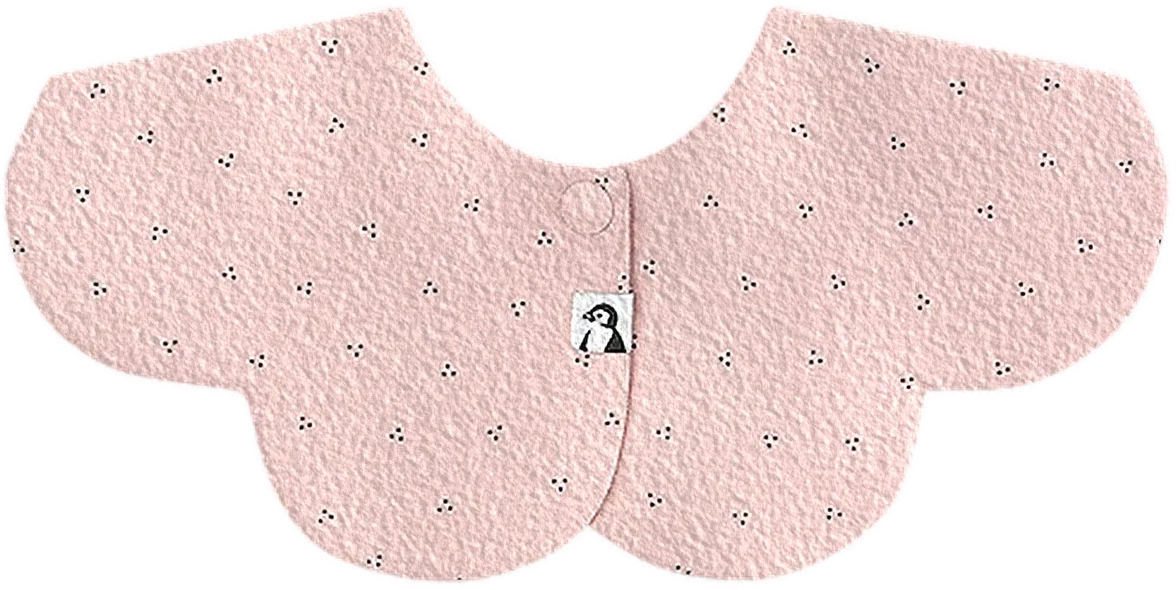
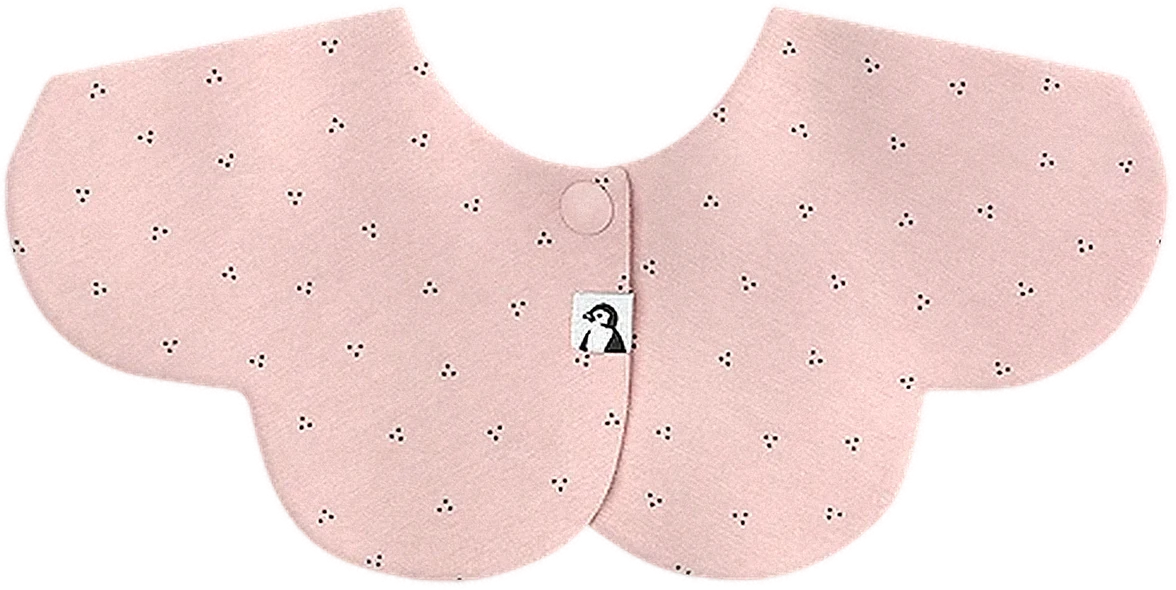
Fix flutter dead since v34: frame delta was computed after its own update
The physics stepped with dtS = nowRender - prevRenderTs, but the sway
block above had already set prevRenderTs = nowRender, so the delta was
always 0 and clamped to the 8ms floor - the cloth simulation ran at 1/4
real time at 31fps, and the swing spring never developed amplitude
before a body movement ended. This is why no amount of gain tuning
(v34-v38) made flutter perceptible. The delta is now captured before
the update. Raw detection velocity also stopped being diluted: it now
updates only when rawX actually changes (render frames without a fresh
detection used to mix in v=0, halving the estimate), with gentle decay
when detections stall. HUD gains cloth/vx/sw fields for remote
diagnosis.

Material (user: nap reads as pebbles, not fur): the bump-grain layers
are removed from the height field - velvet scattering now comes only
from smooth drape slopes (blurred, wide, pale), plus a sub-pixel
luminance-only fiber grain at 2.5%. Side-lit texture contrast drops
6.9 to 4.0 (same as rest) while directional response stays intact.

Verified: simulation at real cadence (31fps render / 29Hz detection,
raw jitter 4px) peaks 2.9/5.7/11.5 deg for 50/100/200% with zero
moving frames at rest. APP_VERSION v39.

Changed region(s): [[0.0, 0.0305, 0.9796, 0.9763], [0.4592, 0.2746, 0.4898, 0.3051]]

diff --git a/js/main.js b/js/main.js
@@ -8,7 +8,7 @@ import {
   DETECT,
   MOBILE_QUERY,
   STATUS_MESSAGES,
-} from './config.js?v38';
+} from './config.js?v39';
 import {
   poseToFit,
   faceToFit,
@@ -20,19 +20,19 @@ import {
   isPlausibleFit,
   applyFusionOffset,
   measureFusionOffset,
-} from './fit-math.js?v38';
-import { applyStopLock, smoothTimed } from './stabilizer.js?v38';
+} from './fit-math.js?v39';
+import { applyStopLock, smoothTimed } from './stabilizer.js?v39';
 import {
   drawBib,
   eraseMaskArea,
   drawBeautyLight,
-} from './renderer.js?v38';
-import { createPoseLandmarker, createFaceLandmarker, createImageSegmenter } from './engine.js?v38';
-import { SEG_MODEL_LITE_URL } from './config.js?v38';
+} from './renderer.js?v39';
+import { createPoseLandmarker, createFaceLandmarker, createImageSegmenter } from './engine.js?v39';
+import { SEG_MODEL_LITE_URL } from './config.js?v39';
 
 // 빌드 버전 — index.html의 ?v= 캐시버스팅과 함께 올린다.
 // ?debug=1 HUD 첫 줄과 콘솔, __vtoDiag()에 표시되어 "지금 어떤 버전인지" 즉시 확인 가능.
-const APP_VERSION = 'v38';
+const APP_VERSION = 'v39';
 
 const $ = (id) => document.getElementById(id);
 
@@ -248,7 +248,7 @@ function updateHud(now) {
     `engine:${diag.engine} delegate:${delegatePref} input:${analyzeMode} stage:${stageIndex}${hasEverDetected ? '*' : ''}`,
     `video:${v?.videoWidth ?? 0}x${v?.videoHeight ?? 0} mobile:${isMobileSession} seg:${segDisabled ? 'off' : segmenter ? `${segTier} ${diag.segRuns}r e${diag.segErrors} ${diag.segCost ?? 0}ms` : '-'}`,
     `pose:${diag.poseHits}/${diag.poseRuns} e${diag.poseErrors} face:${diag.faceHits}/${diag.faceRuns} e${diag.faceErrors}${faceForcedCpu ? ' faceCPU' : ''}`,
-    `fit:${renderedFit ? `${Math.round(renderedFit.x)},${Math.round(renderedFit.y)} w${Math.round(renderedFit.width)}` : '-'} mask:${mask ? 'y' : 'n'}`,
+    `fit:${renderedFit ? `${Math.round(renderedFit.x)},${Math.round(renderedFit.y)} w${Math.round(renderedFit.width)}` : '-'} mask:${mask ? 'y' : 'n'} cloth:${diag.cloth ?? 0} vx:${diag.vx ?? 0} sw:${diag.swing ?? 0}`,
     diag.lastError ? `err:${String(diag.lastError).replace(/\s+/g, ' ').slice(0, 72)}` : '',
   ].filter(Boolean).join('\n');
 }
@@ -357,6 +357,10 @@ function renderFrame() {
     : 1;
   // 이동 관성 스웨이: 좌우로 움직일 때 뒤따르는 쪽 원단이 살짝 눕는다.
   const nowRender = performance.now();
+  // 실제 프레임 간격 — prevRenderTs를 갱신하기 "전"에 확보해야 한다.
+  // v34~38은 갱신 후에 계산해 항상 0 → 하한 8ms 고정 → 물리가 실시간의
+  // 1/4 속도로 돌아 스윙이 자라기 전에 움직임이 끝났다(찰랑 무반응의 진짜 원인).
+  const frameDtMs = prevRenderTs ? Math.min(80, Math.max(4, nowRender - prevRenderTs)) : 16;
   if (prevRenderX !== null) {
     const dtMs = Math.max(8, nowRender - prevRenderTs);
     const vx = ((renderedFit.x - prevRenderX) / dtMs) * 1000;
@@ -372,16 +376,20 @@ function renderFrame() {
   // 진자 스윙: 좌우 이동을 입력으로 목(상단 중앙)을 축 삼아 흔들리고 감쇠 복원.
   // 회전+미소 평행이동뿐이라 실루엣은 보존된다.
   {
-    const dtS = Math.min(0.05, Math.max(0.008, (nowRender - prevRenderTs) / 1000)) || 0.016;
+    const dtS = Math.min(0.06, Math.max(0.008, frameDtMs / 1000));
     // 원시 감지 좌표의 속도 — 안정화 필터가 지우기 전의 실제 움직임.
     // (v33은 필터 후 속도를 써서 작은 움직임에 전혀 반응하지 못했다)
-    if (rawX !== null) {
+    // 감지값이 실제로 바뀐 순간에만 속도를 갱신한다. 매 렌더 프레임마다
+    // 갱신하면 감지가 없던 프레임의 v=0이 섞여 속도가 절반으로 희석됐다.
+    if (rawX !== null && rawX !== prevRawX) {
       if (prevRawX !== null && nowRender > prevRawTs) {
         const v = ((rawX - prevRawX) / Math.max(8, nowRender - prevRawTs)) * 1000;
-        rawVx += (v - rawVx) * Math.min(1, dtS * 12); // 가벼운 저역필터
+        rawVx += (v - rawVx) * 0.5; // 감지 이벤트 단위 저역필터 (~2회 평균)
       }
       prevRawX = rawX;
       prevRawTs = nowRender;
+    } else {
+      rawVx *= Math.max(0, 1 - dtS * 3); // 감지 공백 시 서서히 감쇠
     }
     // 데드밴드 + 히스테리시스: 정지 상태의 감지 노이즈(±수 px 지터)가
     // 속도로 오인돼 원단이 계속 꿈틀거리는 것("살아있는 문어") 방지.
@@ -428,6 +436,8 @@ function renderFrame() {
     drawFit.lightYaw = Math.max(-1, Math.min(1,
       drawFit.yaw + swingA * 2.6 + driveV * 0.0006));
     diag.cloth = clothMoving ? 1 : 0;
+    diag.vx = Math.round(rawVx);
+    diag.swing = Math.round(swingA * 573) / 10; // deg
     drawFit.fxLight = state.fx.light;
     drawFit.fxAngle = state.fx.angle;
     drawFit.fxBright = state.fx.bright;
@@ -1239,9 +1249,9 @@ function init() {
     renderFrame();
   };
   const litFiles = {
-    left: './assets/konny-bib-lit-left.webp?v38',
-    top: './assets/konny-bib-lit-top.webp?v38',
-    right: './assets/konny-bib-lit-right.webp?v38',
+    left: './assets/konny-bib-lit-left.webp?v39',
+    top: './assets/konny-bib-lit-top.webp?v39',
+    right: './assets/konny-bib-lit-right.webp?v39',
   };
   const litImgs = {};
   let litLeft = Object.keys(litFiles).length;

diff --git a/index.html b/index.html
@@ -7,7 +7,7 @@
   <meta name="description" content="카메라 영상이 기기 밖으로 전송되지 않는 코니 턱받이 브라우저 가상착용" />
   <meta name="theme-color" content="#fbfaf7" />
   <link rel="preload" as="image" href="./assets/konny-bib-hd.webp" />
-  <link rel="stylesheet" href="./css/app.css?v=38" />
+  <link rel="stylesheet" href="./css/app.css?v=39" />
 </head>
 <body>
   <main class="app-shell">
@@ -232,6 +232,6 @@
     </div>
   </div>
 
-  <script type="module" src="./js/main.js?v=38"></script>
+  <script type="module" src="./js/main.js?v=39"></script>
 </body>
 </html>

diff --git a/js/stabilizer.js b/js/stabilizer.js
@@ -2,8 +2,8 @@
 // 1단계 applyStopLock: 정지 잠금 — 임계값 이하 변화는 무시, 넘을 때만 적응형 게인으로 이동
 // 2단계 smoothTimed: 시간 기반 지수 보간 — 렌더 프레임마다 부드럽게 목표를 따라감
 
-import { clamp } from './fit-math.js?v38';
-import { BIB_ASPECT } from './config.js?v38';
+import { clamp } from './fit-math.js?v39';
+import { BIB_ASPECT } from './config.js?v39';
 
 export function applyStopLock(prev, next) {
   if (!prev) return next;

diff --git a/js/engine.js b/js/engine.js
@@ -1,6 +1,6 @@
 // MediaPipe Tasks Vision 로딩 — GPU 우선, 실패 시 CPU 폴백 (v15 동일)
 
-import { POSE_MODEL_URL, FACE_MODEL_URL, SEG_MODEL_URL, WASM_BASE_URL, VISION_BUNDLE_URL } from './config.js?v38';
+import { POSE_MODEL_URL, FACE_MODEL_URL, SEG_MODEL_URL, WASM_BASE_URL, VISION_BUNDLE_URL } from './config.js?v39';
 
 let visionModulePromise = null;
 let filesetPromise = null;

diff --git a/js/fit-math.js b/js/fit-math.js
@@ -1,7 +1,7 @@
 // 랜드마크 → 착용 핏 계산 (v15 알고리즘 이식)
 // fit = { x, y, width, height, rotation, yaw, pitch, confidence } (픽셀 좌표계)
 
-import { BIB_ASPECT, FACE_OVAL } from './config.js?v38';
+import { BIB_ASPECT, FACE_OVAL } from './config.js?v39';
 
 export const clamp = (value, min, max) => Math.min(max, Math.max(min, value));
 
